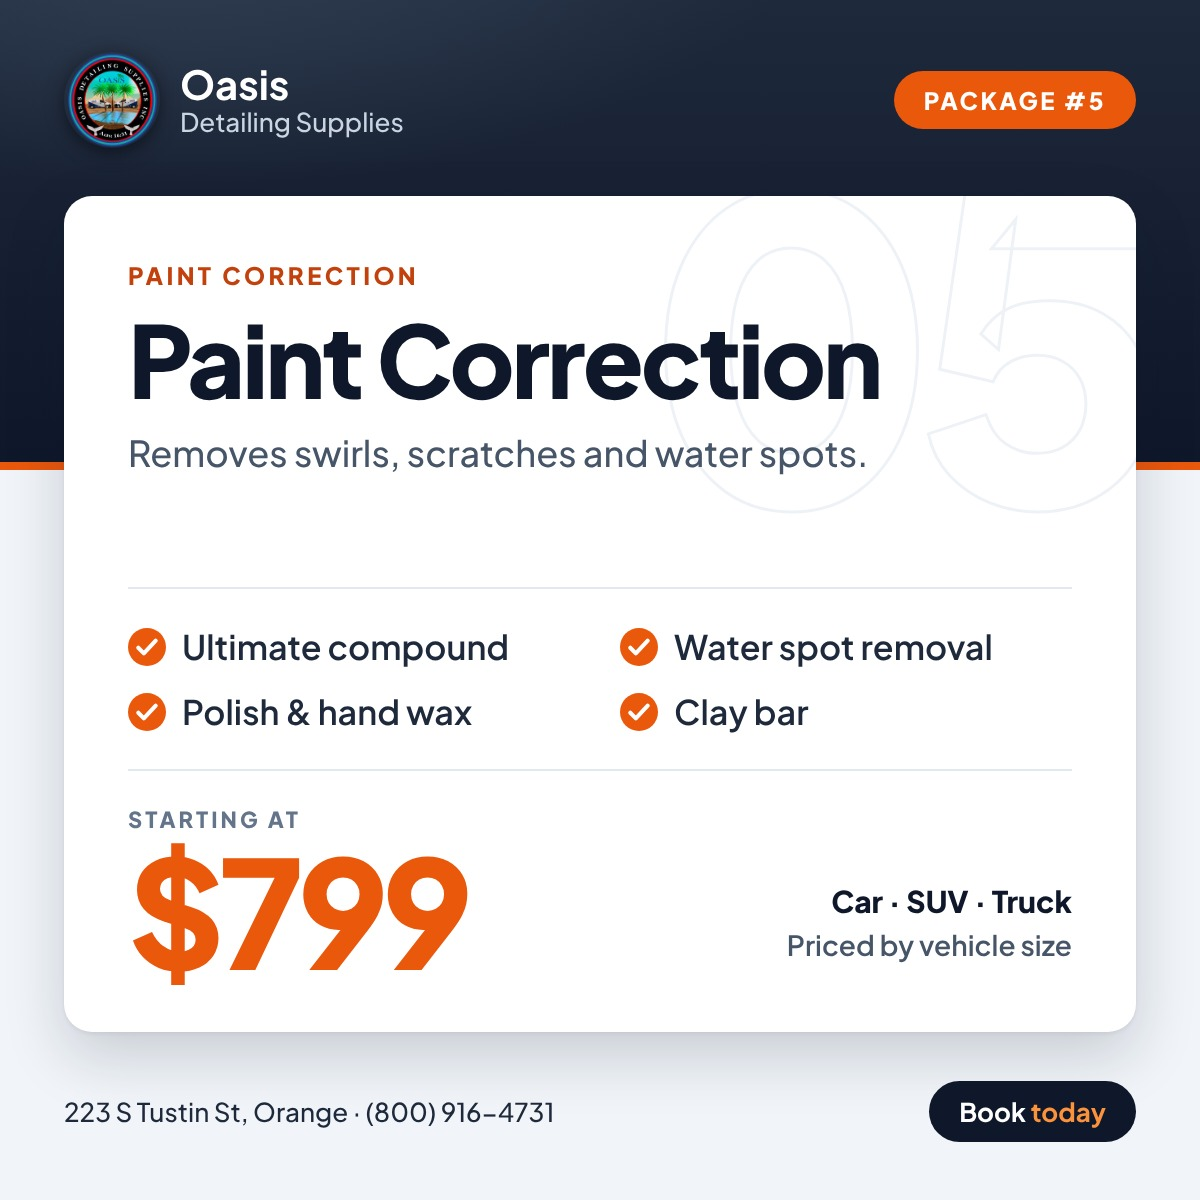
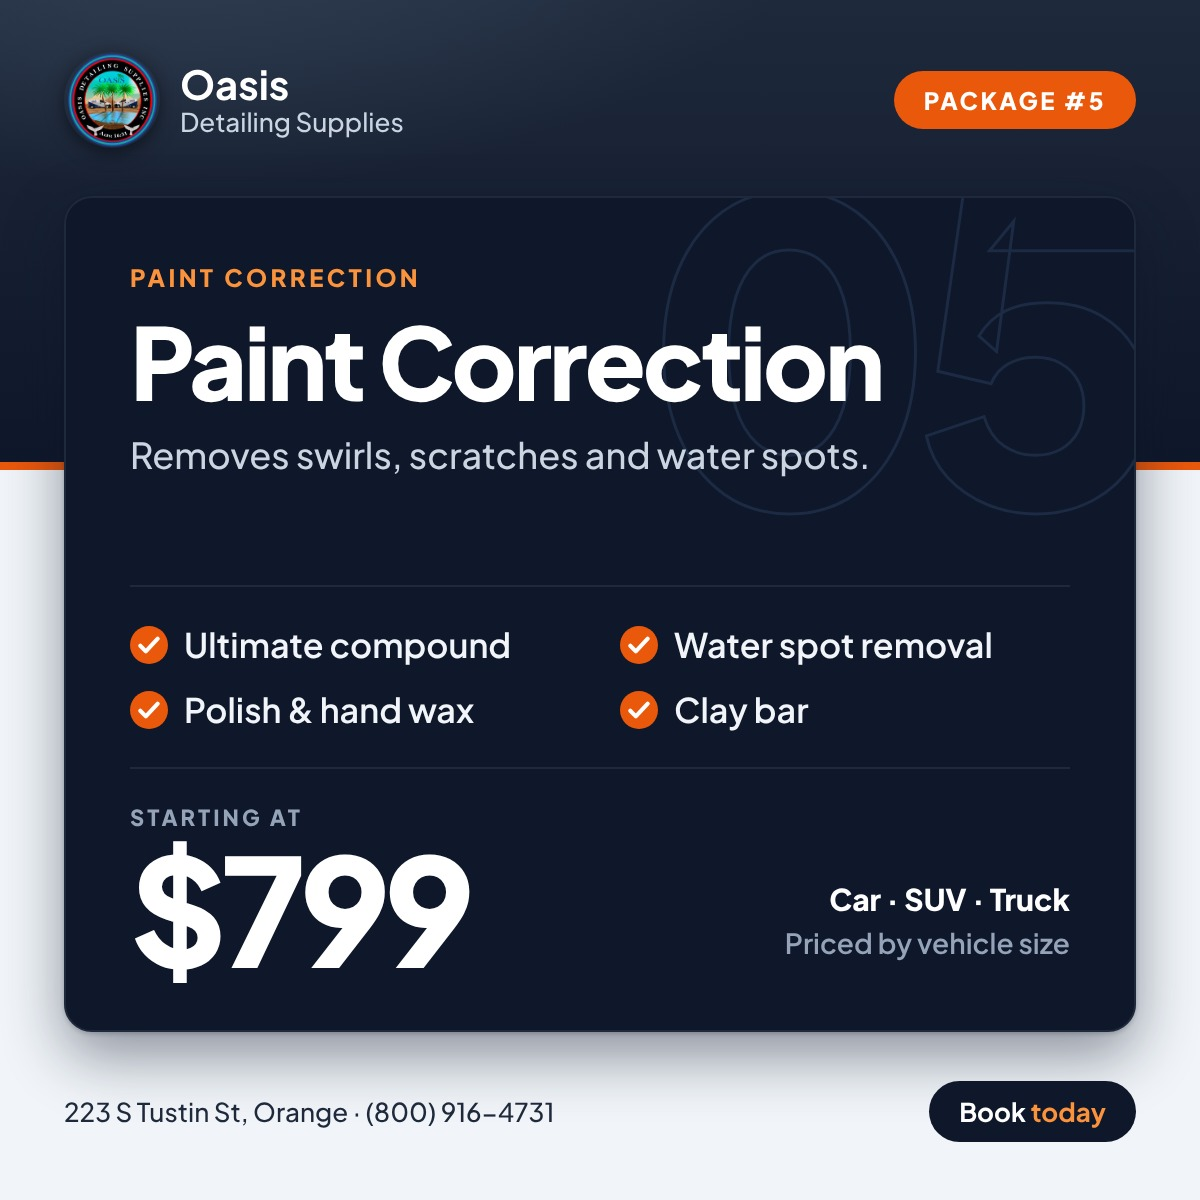
Give premium packages (5, 6) the dark card from the services page
Claude-Session: https://claude.ai/code/session_01DuvXdhD7zjZudMQ3KkXJYc

diff --git a/gmaps-product-photos/src/render.js b/gmaps-product-photos/src/render.js
@@ -20,10 +20,10 @@ const services = [
   { slug: '4-full-supreme-detail', n: 4, cat: 'Detail package', title: 'Full Supreme Detail', from: '$449',
     tag: 'Our complete inside-and-out detail.',
     items: ['Interior shampoo', 'Clay bar', 'Polish &amp; hand wax', 'Ceramic wash'] },
-  { slug: '5-paint-correction', n: 5, cat: 'Paint correction', title: 'Paint Correction', from: '$799',
+  { slug: '5-paint-correction', n: 5, cat: 'Paint correction', title: 'Paint Correction', from: '$799', premium: true,
     tag: 'Removes swirls, scratches and water spots.',
     items: ['Ultimate compound', 'Water spot removal', 'Polish &amp; hand wax', 'Clay bar'] },
-  { slug: '6-premium-ceramic-coating', n: 6, cat: 'Ceramic coating', title: 'Premium Ceramic Coating', from: '$849',
+  { slug: '6-premium-ceramic-coating', n: 6, cat: 'Ceramic coating', title: 'Premium Ceramic Coating', from: '$849', premium: true,
     tag: 'Long-term gloss and paint protection.',
     items: ['Paint correction', 'Ceramic coating', 'Interior detail', 'Paint disinfectant'] },
 ];
@@ -59,6 +59,18 @@ const page = (s) => `<!doctype html><html><head><meta charset="utf-8">
   .price{font-size:150px;font-weight:800;line-height:.9;letter-spacing:-.04em;color:#ea580c;margin-top:8px}
   .sizes{font-size:28px;font-weight:600;color:#475569;text-align:right;line-height:1.5;padding-bottom:10px}
   .sizes b{display:block;color:#0f172a;font-size:30px}
+  /* premium packages: dark card like the services page */
+  .card.dark-card{background:#0f172a;border:2px solid #1e293b;box-shadow:0 2px 4px rgba(15,23,42,.2),0 24px 60px rgba(15,23,42,.45)}
+  .dark-card .num{-webkit-text-stroke-color:#1c2a44}
+  .dark-card .label{color:#fb923c}
+  .dark-card h1{color:#fff}
+  .dark-card .tag{color:#cbd5e1}
+  .dark-card ul{border-color:#1e293b}
+  .dark-card li{color:#f1f5f9}
+  .dark-card .bottom .label{color:#94a3b8}
+  .dark-card .price{color:#fff}
+  .dark-card .sizes{color:#94a3b8}
+  .dark-card .sizes b{color:#fff}
   footer{position:absolute;left:64px;right:64px;bottom:58px;display:flex;align-items:center;justify-content:space-between;font-size:26px;font-weight:500;color:#1e293b}
   .dark{background:#0f172a;color:#fff;font-weight:700;padding:14px 30px;border-radius:999px}
   .dark em{font-style:normal;color:#fb923c}
@@ -68,7 +80,7 @@ const page = (s) => `<!doctype html><html><head><meta charset="utf-8">
     <div class="brand"><img src="${LOGO}" alt=""><div><b>Oasis</b><span>Detailing Supplies</span></div></div>
     <div class="pill">Package #${s.n}</div>
   </header>
-  <div class="card">
+  <div class="card${s.premium ? ' dark-card' : ''}">
     <div class="num">0${s.n}</div>
     <div class="label">${s.cat}</div>
     <h1>${s.title}</h1>
